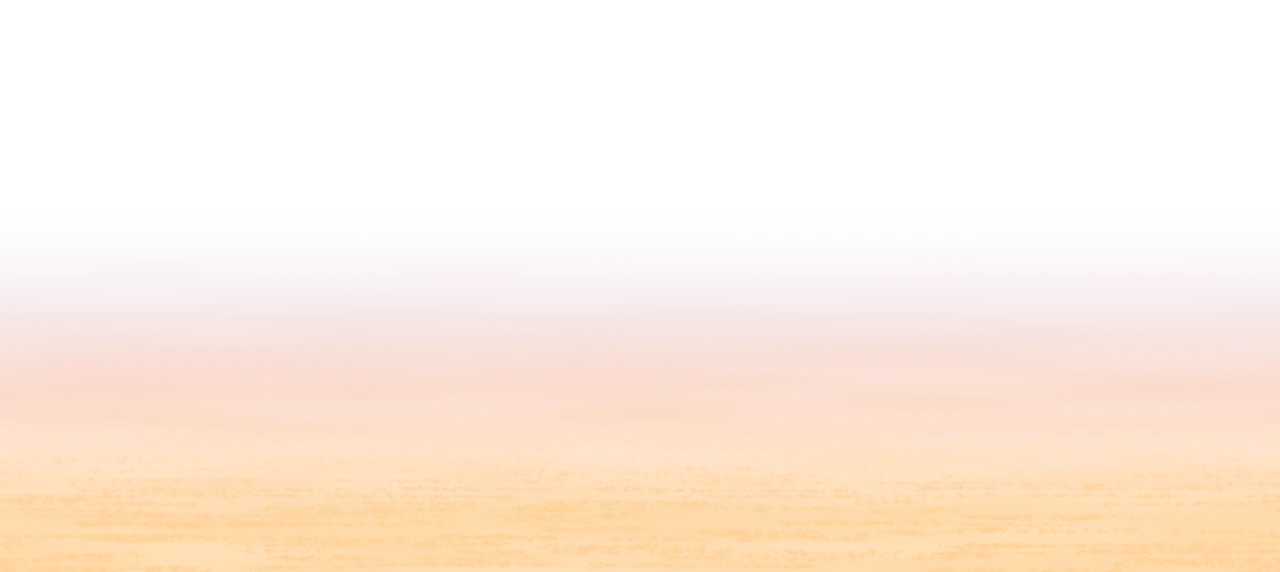
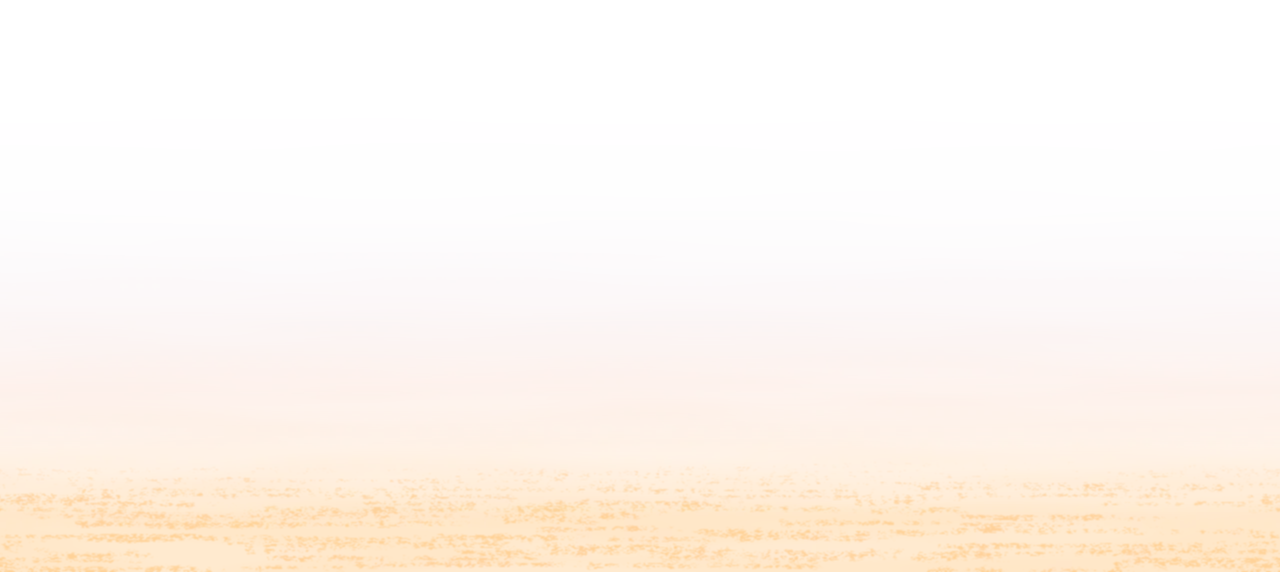
fix(blog): fade the dusk sky out over the whole box and soften the sun haze

diff --git a/scripts/paint-sillage.ts b/scripts/paint-sillage.ts
@@ -373,8 +373,8 @@ function palettes(): Record<'light' | 'dark' | 'dusk-light' | 'dusk-dark', Palet
         [0.45, mix(rose, mauve, 0.55)],
         [0.62, mix(mauve, white, 0.35)],
       ],
-      wash: 0.78,
-      strokes: 0.7,
+      wash: 0.5,
+      strokes: 0.5,
     },
   };
 
@@ -439,8 +439,8 @@ function palettes(): Record<'light' | 'dark' | 'dusk-light' | 'dusk-dark', Palet
         [0.34, mix(night, mix(periwinkle, mauve, 0.3), 0.56)],
         [0.6, mix(night, violet, 0.5)],
       ],
-      wash: 0.66,
-      strokes: 0.7,
+      wash: 0.5,
+      strokes: 0.5,
     },
   };
   return { light, dark, 'dusk-light': duskLight, 'dusk-dark': duskDark };
@@ -1855,9 +1855,9 @@ const SEA_BOX_H = 360;
 const SKY = { width: 640, height: SEA_BOX_H - BACK_FLOOR };
 /** The far swell's resting surface, from the strip's top: the sky's 0. */
 const HORIZON = SKY.height - (BACK_H - BACK_HEADROOM);
-/** How high the colour reaches, and the crayon along the horizon. */
-const SKY_REACH = 0.62;
-const SKY_STROKES = 0.16;
+/** How fast the colour thins above the horizon, and how high the crayon goes. */
+const SKY_FALL = 3.2;
+const SKY_STROKES = 0.12;
 
 function skyColor(colors: [number, RGB][], t: number): RGB {
   let i = 0;
@@ -1868,9 +1868,8 @@ function skyColor(colors: [number, RGB][], t: number): RGB {
 }
 
 /**
- * The sky's colour: one even wash, heaviest on the horizon and eased out to
- * nothing well below the footer's text, so the page's own sky takes over
- * without a seam; then a few level crayon strokes along the horizon only,
+ * The sky's colour: one faint wash, heaviest on the horizon and thinning all
+ * the way up, so the page's own sky takes over without a seam; then a few level crayon strokes along the horizon only,
  * where the light is, so it still reads as drawn.
  */
 function paintSky(p: Palette, seed: number): Art {
@@ -1886,7 +1885,11 @@ function paintSky(p: Palette, seed: number): Art {
 
   const cover = new Float32Array(w * h);
   for (let y = 0; y < h; y++) {
-    const a = wash * (1 - smooth(0, SKY_REACH, heightAt(y)));
+    // Mostly on the horizon, with a long faint tail that reaches nothing at
+    // the top of the box: on a phone the whole sky is a few dozen px tall, and
+    // a short fade there reads as an edge.
+    const t = heightAt(y);
+    const a = wash * Math.exp(-SKY_FALL * t) * (1 - smooth(0, 1, t));
     for (let x = 0; x < w; x++) cover[y * w + x] = a * (0.92 + 0.16 * tone[y * w + x]);
   }
   ground(art, cover, (_x, y) => skyColor(colors, heightAt(y)), tone, 0);
@@ -1928,8 +1931,8 @@ const SUN_R = 26;
 const HALO_R = 72;
 
 /**
- * The low sun: a crayoned disc, hotter at the heart, rimmed rose, in a haze of
- * level strokes that thin out away from it. Its centre sits on the far
+ * The low sun: a crayoned disc, hotter at the heart, rimmed rose, in a soft
+ * haze. Strokes in the haze read as a patch against the faint sky. Its centre sits on the far
  * swell, so the water hides the lower half of both.
  */
 function paintSun(p: Palette, seed: number): Art {
@@ -1939,30 +1942,8 @@ function paintSun(p: Palette, seed: number): Art {
   const glow = (x: number, y: number) => Math.pow(clamp01(1 - Math.hypot(x - c, y - c) / (HALO_R * R)), 1.7);
 
   const haze = new Float32Array(art.w * art.h);
-  for (let i = 0; i < haze.length; i++) haze[i] = glow(i % art.w, (i / art.w) | 0) * 0.5;
+  for (let i = 0; i < haze.length; i++) haze[i] = glow(i % art.w, (i / art.w) | 0) * 0.35;
   ground(art, haze, () => p.halo, tone, 0.04);
-  for (let y = SUN.width / 2 - HALO_R; y < SUN.width / 2 + 4; y += between(r, 2.4, 3.6)) {
-    const half = Math.sqrt(Math.max(0, HALO_R * HALO_R - (y - SUN.width / 2) ** 2));
-    let x = SUN.width / 2 - half + between(r, -4, 4);
-    while (x < SUN.width / 2 + half) {
-      const len = between(r, 14, 44);
-      sweep(
-        art,
-        tooth,
-        {
-          x: x * R,
-          y: y * R,
-          len: len * R,
-          width: between(r, 3.5, 5.5) * R,
-          pressure: 0.85,
-          color: mix(p.halo, p.sun, glow(x * R + (len * R) / 2, y * R)),
-          clip: (px, py) => Math.pow(glow(px, py), 0.6),
-        },
-        r,
-      );
-      x += len * between(r, 0.75, 1.15);
-    }
-  }
 
   const disc: Pt[] = [];
   for (let i = 0; i < 90; i++) {
